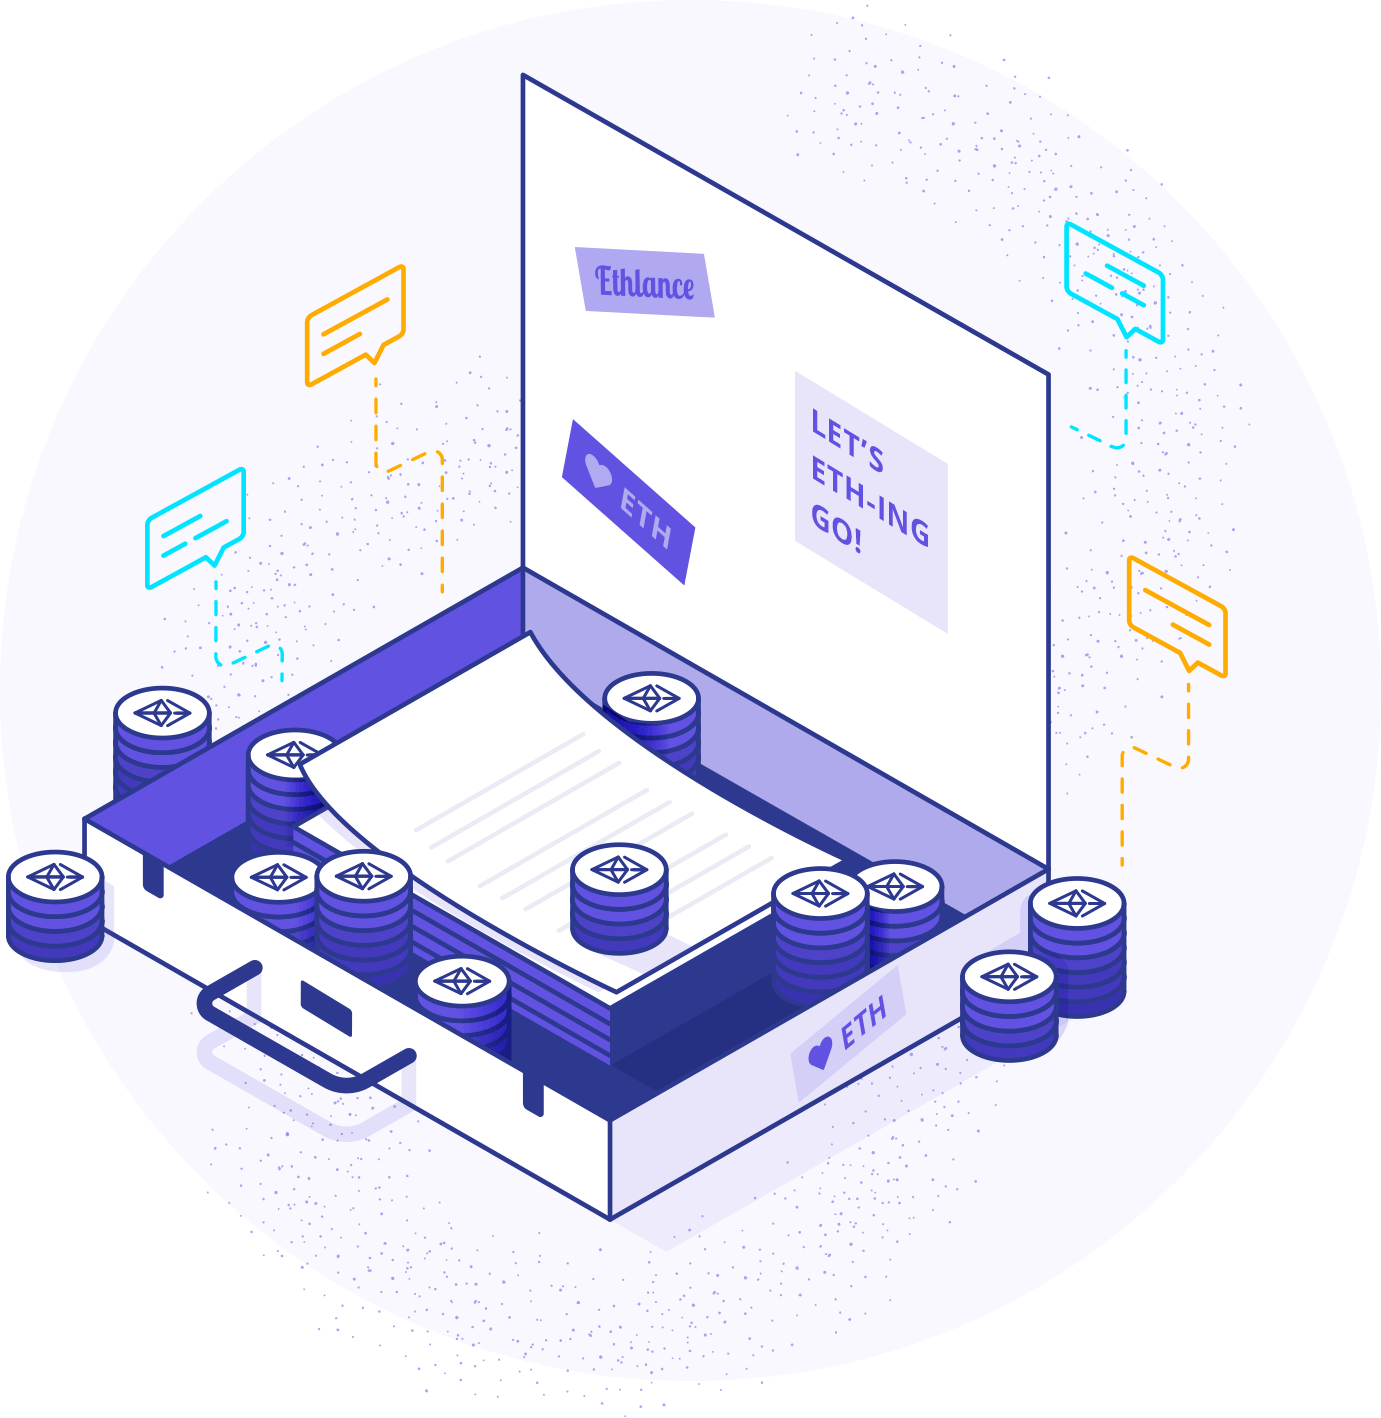
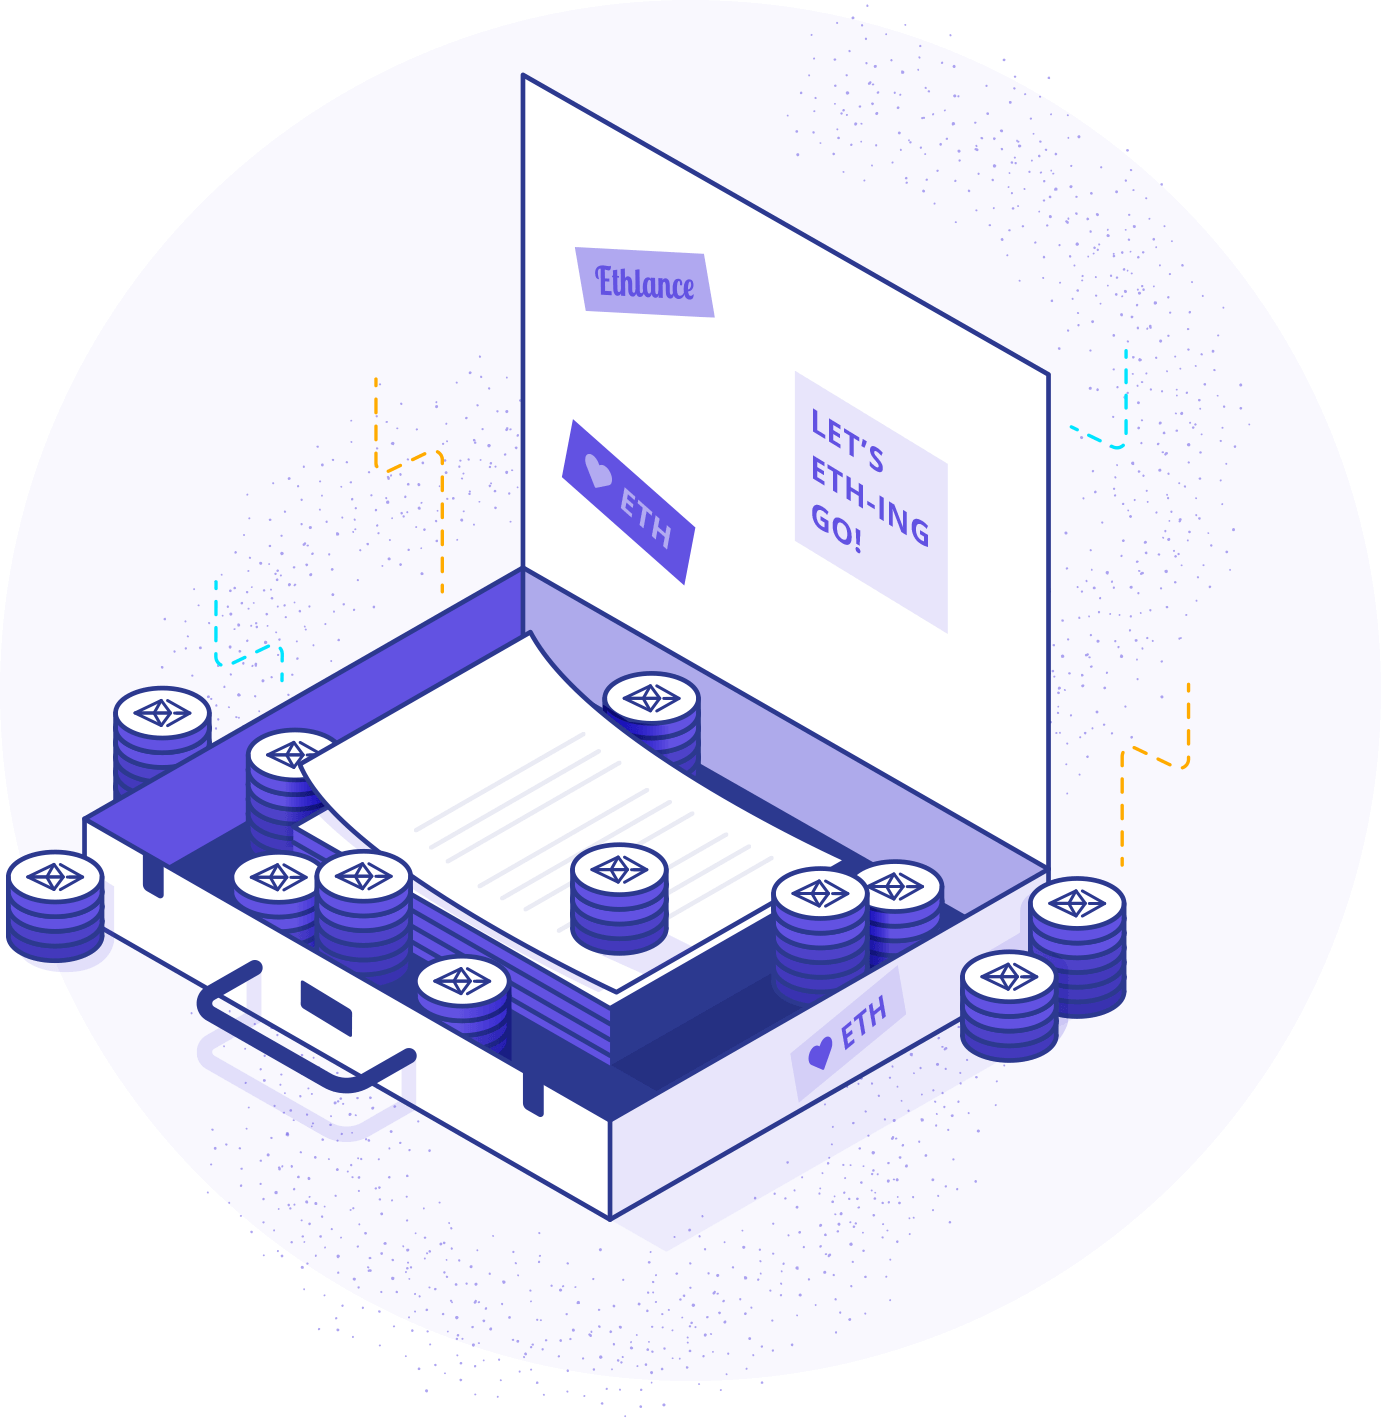
Fixed up navigation bar, finished first animated image

diff --git a/resources/public/less/component/main-navigation-bar.less b/resources/public/less/component/main-navigation-bar.less
@@ -4,8 +4,8 @@
 .main-navigation-bar {
     display: grid;
     color: white;
-    grid-template-areas: 'logo . profile account-transactions';
-    grid-template-columns: 130px 3fr 1fr 300px;
+    grid-template-areas: 'logo . profile account-balances';
+    grid-template-columns: 130px 3fr auto auto;
     background-color: #color[dark-blue];
 
     > .ethlance-logo {
@@ -13,6 +13,7 @@
         display: flex;
         justify-content: flex-start;
         align-items: center;
+        padding: 0 1em;
 
         > img {
             height: 1.6em;
@@ -25,12 +26,35 @@
         justify-content: flex-end;
         align-items: center;
         
+        > .ethlance-profile-image {
+          margin: 0 1em;
+        }
+
+        > .name {
+          font-weight: bold;
+          padding: 0 1em;
+        }
     }
 
-    > .account-transactions {
-        grid-area: account-transactions;
+    > .account-balances {
+        grid-area: account-balances;
         display:flex;
         justify-content: center;
+        flex-direction: column;
         align-items: center;
+        background-color: darken(#color[dark-blue], 10%);
+        margin-left: 1em;
+        width: 200px;
+        padding: 0 1em;
+        line-height: 1.5em;
+
+        > .token-value {
+          font-weight: 600;
+          font-size: 1.1em;
+        }
+        
+        > .usd-value {
+          font-weight: 300;
+        }
     }
 }

diff --git a/resources/public/less/component/splash-layout.less b/resources/public/less/component/splash-layout.less
@@ -150,11 +150,9 @@
           margin-top: 5rem;
           font-size: 0.74rem;
           > .img-district {
+            position: relative;
             width: 6.3rem;
             margin-bottom: 1.2rem;
-            > img {
-              width: 100%;
-            }
           }
 
           > p {
@@ -168,10 +166,47 @@
         }
       }
       > .part-figure {
+        position: relative;
         flex-basis: 50%;
 
         @media #media[tablet-query] {
           display: none;
+        }
+
+        img:first-child {
+          width: 100%;
+        }
+        
+        .home-dialog {
+          position: absolute;
+        }
+        
+        .home-dialog-1 {
+          width: 7.25%;
+          top: 32.75%;
+          left: 10.5%;
+          animation-delay: 0s;
+        }
+
+        .home-dialog-2 {
+          width: 7.25%;
+          top: 18.5%;
+          left: 22.1%;
+          animation-delay: 1.5s;
+        }
+
+        .home-dialog-3 {
+          width: 7.25%;
+          top: 15.5%;
+          right: 15.75%;
+          animation-delay: 1.1s;
+        }
+
+        .home-dialog-4 {
+          width: 7.25%;
+          top: 39%;
+          right: 11.1%;
+          animation-delay: 2.5s;
         }
       }
     }

diff --git a/resources/public/less/base/animation.less b/resources/public/less/base/animation.less
@@ -30,3 +30,26 @@
   animation-name: fade-in;
   animation-duration: 1.0s;
 }
+
+
+@keyframes hovering {
+  from {
+    margin-top: -1%;
+  }
+
+  to {
+    margin-top: 1%;
+  }
+}
+
+
+.animation-hovering {
+  animation-name: hovering;
+  animation-duration: 3s;
+  animation-timing-function: ease-in-out;
+  animation-delay: 0s;
+  animation-iteration-count: infinite;
+  animation-direction: alternate;
+  animation-fill-mode: none;
+  animation-play-state: running;
+}

diff --git a/resources/public/less/component/profile-image.less b/resources/public/less/component/profile-image.less
@@ -4,7 +4,7 @@
 .ethlance-profile-image {
   @large-size: 128px;
   @normal-size: 64px;
-  @small-size: 32px;
+  @small-size: 48px;
 
   display: flex;
   align-items: center;
